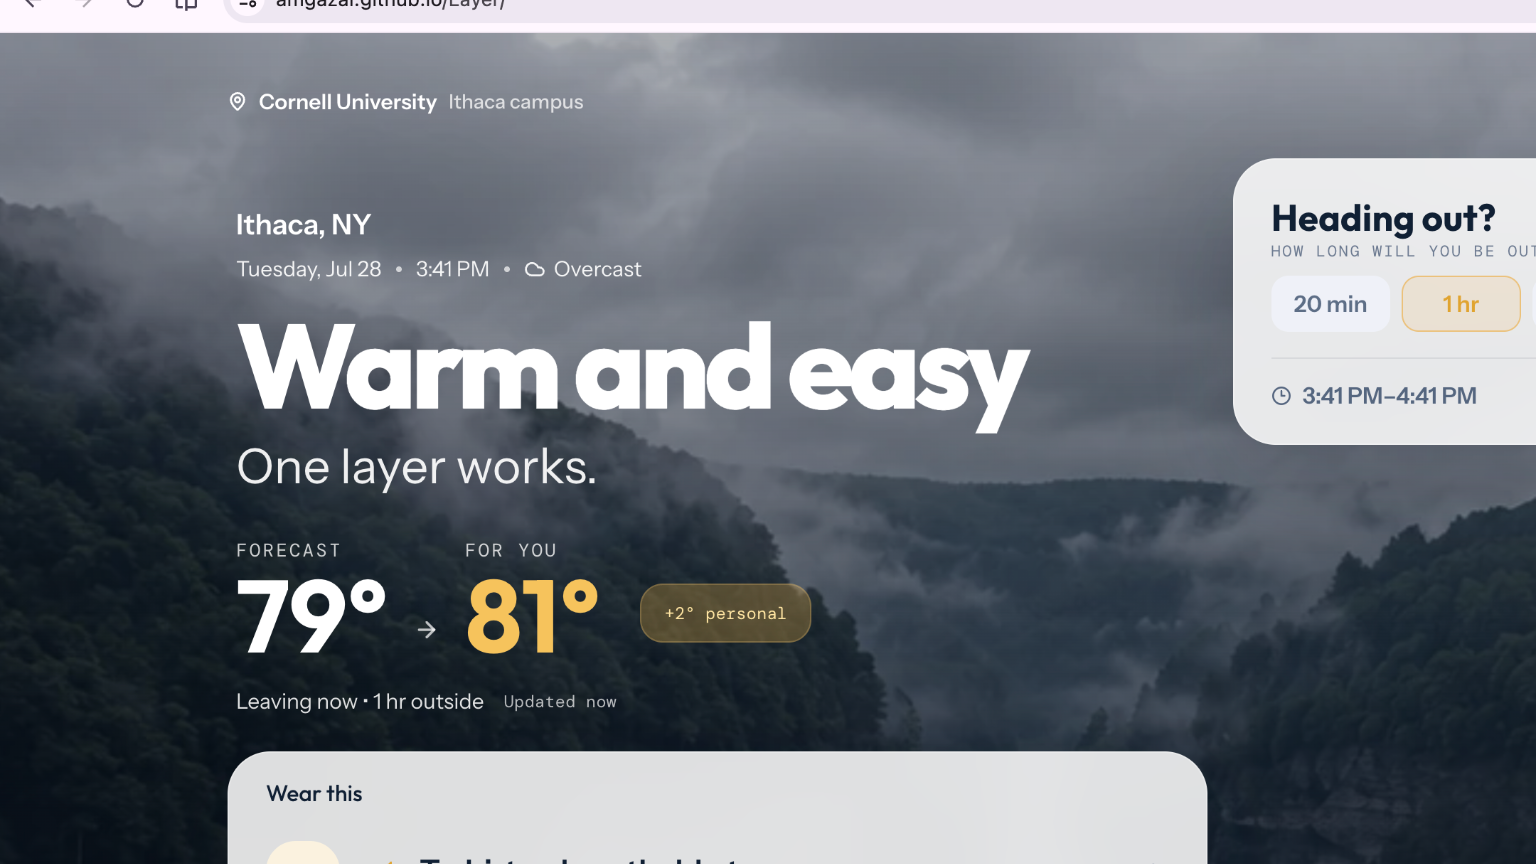
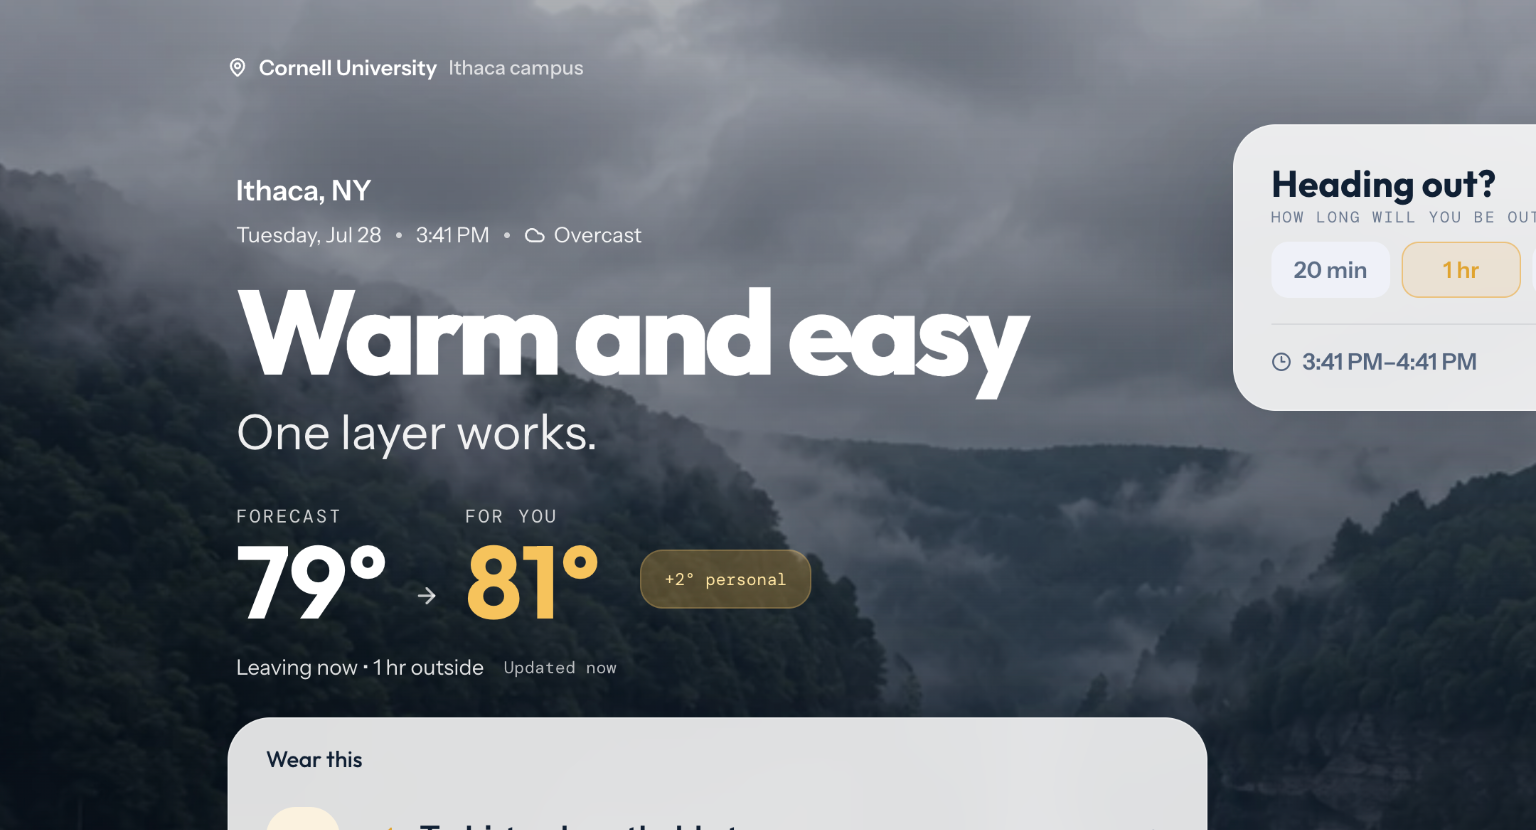
Refine portfolio intro, Layer preview, about section, and footer

diff --git a/index.html b/index.html
@@ -76,7 +76,7 @@
     <div class="scroll-progress" aria-hidden="true"><span id="scrollProgress"></span></div>
 
     <div class="cinema-curtain" id="cinemaCurtain">
-      <div class="curtain-meta" aria-hidden="true">Portfolio / 2026</div>
+      <div class="curtain-meta" aria-hidden="true">Portfolio</div>
       <button class="curtain-skip" id="curtainSkip" type="button">Skip intro</button>
 
       <div class="name-rig" id="nameRig" aria-hidden="true">
@@ -127,11 +127,10 @@
             <div class="cinema-hero-copy">
               <p class="cinema-overline">Cornell University · Information Science · 2028</p>
               <h1 id="introTitle">Abdallah Gazal</h1>
-              <p class="cinema-role">Software engineer who likes understanding the whole system.</p>
+              <p class="cinema-role">Software engineer building thoughtful products from interface to implementation.</p>
               <p class="cinema-lede">
-                I’ve built and shipped React interfaces, worked with APIs and PostgreSQL, written tests
-                and CI checks, and supported real users when things break. I care about the details,
-                but I also want to understand how the pieces fit together.
+                I like work that goes beyond the surface—building the interface, understanding the data and backend behind it,
+                and tightening the details that make a product feel dependable. That range is what keeps software interesting to me.
               </p>
 
               <div class="cinema-actions">
@@ -209,7 +208,7 @@
             <div class="project-text">
               <div class="project-meta">
                 <span class="project-status project-status--live">Independent project</span>
-                <span>2026</span>
+                <span>React · Supabase</span>
               </div>
 
               <h3>Layer</h3>
@@ -264,7 +263,7 @@
             <div class="project-text">
               <div class="project-meta">
                 <span class="project-status project-status--live">Live website</span>
-                <span>2026</span>
+                <span>Frontend · Information architecture</span>
               </div>
               <h3>Future Civilizations Conference</h3>
               <p class="project-summary">
@@ -318,7 +317,7 @@
             <div class="project-text">
               <div class="project-meta">
                 <span class="project-status project-status--live">AI4ALL · Team project</span>
-                <span>2026</span>
+                <span>ML · Streamlit</span>
               </div>
               <h3>AI Tweet Detection</h3>
               <p class="project-summary">
@@ -616,35 +615,34 @@
         </div>
       </section>
 
-      <section id="about" class="container reveal">
+            <section id="about" class="container reveal">
         <div class="section-head">
           <div>
             <p class="eyebrow"><span>03</span> About</p>
-            <h2>I care about what happens after “it works.”</h2>
+            <h2>I like software that feels clear to the user and solid underneath.</h2>
           </div>
           <p>
-            Getting the first version running is the start. I like tightening the interface, tracing the
-            data flow, testing the failure cases, and making sure the person using it never has to think
-            about the engineering underneath.
+            What keeps me interested is the part after the first build works: refining the interface,
+            checking the awkward states, and understanding the system well enough to fix the right thing.
           </p>
         </div>
 
         <div class="about-grid">
           <article class="panel">
             <span class="panel-number">01</span>
-            <h3>Finish the last 10%</h3>
+            <h3>Polish the experience</h3>
             <p>
-              I revisit responsive behavior, edge cases, wording, and the awkward states that appear
-              after the clean demo is over. Those details are usually what make software feel finished.
+              I pay attention to the details people actually feel—responsive behavior, wording, empty states,
+              and the rough edges that decide whether a product feels finished or just functional.
             </p>
           </article>
 
           <article class="panel">
             <span class="panel-number">02</span>
-            <h3>Know what sits behind the screen</h3>
+            <h3>Work across the stack</h3>
             <p>
-              I like being able to trace a feature from the interface to the API, data, tests, and
-              deployment. It makes debugging faster and makes it clearer where a fix actually belongs.
+              I like being able to follow a feature from the UI to the API, data, tests, and deployment.
+              That bigger picture helps me debug faster and make cleaner product decisions.
             </p>
           </article>
         </div>
@@ -699,16 +697,11 @@
       </section>
     </main>
 
-    <footer class="footer container">
+        <footer class="footer container">
       <div class="footer-inner">
         <div class="colophon">
-          <p class="colophon-lead">
-            Designed, built, and refined by Abdallah Gazal <span id="footerYear"></span>
-          </p>
-          <p>
-            Hand-written HTML, CSS, and JavaScript. No frameworks, no UI kit, no page builder.
-            Type set in Bricolage Grotesque and Hanken Grotesk.
-          </p>
+          <p class="colophon-lead">Designed and built by Abdallah Gazal.</p>
+          <p>HTML, CSS, and JavaScript, with a focus on clarity, performance, and maintainability.</p>
         </div>
 
         <a class="footer-top" href="#home">

diff --git a/script.js b/script.js
@@ -29,6 +29,7 @@
   var rigLetters = [];
   var rigLines = [];
   var rigTargets = [];
+  var rigScatterRanks = [];
 
   function buildNameRig() {
     if (!nameRigLetters || !nameRigLines) return;
@@ -59,6 +60,13 @@
       });
 
       nameRigLetters.appendChild(wordEl);
+    });
+
+    var order = rigLetters.map(function (_, index) { return index; });
+    order.sort(function (a, b) { return seededUnit(a, 11) - seededUnit(b, 11); });
+    rigScatterRanks = [];
+    order.forEach(function (originalIndex, scatteredIndex) {
+      rigScatterRanks[originalIndex] = scatteredIndex;
     });
   }
 
@@ -95,31 +103,29 @@
       var target = rigTargets[index];
       if (!target) return;
 
-      var initialX;
+      var scatterRank = rigScatterRanks[index] || 0;
+      var spread = rigLetters.length > 1 ? scatterRank / (rigLetters.length - 1) : 0.5;
+      var initialX = width * (compact ? (0.08 + spread * 0.84) : (0.07 + spread * 0.86));
+      var rowNoise = seededUnit(index, 5);
       var rowLift = 0;
       if (compact) {
-        var wordIndex = Number(letter.dataset.rigWord);
-        var positionInWord = Number(letter.dataset.rigPos);
-        var wordLength = wordIndex === 0 ? 8 : 5;
-        var wordSpread = wordLength > 1 ? positionInWord / (wordLength - 1) : 0.5;
-        initialX = width * ((wordIndex === 0 ? 0.10 : 0.17) + wordSpread * (wordIndex === 0 ? 0.80 : 0.66));
-        rowLift = wordIndex === 0 ? -Math.min(58, height * 0.07) : 0;
+        rowLift = rowNoise < 0.34 ? -Math.min(92, height * 0.11) : rowNoise < 0.68 ? -Math.min(38, height * 0.05) : 0;
       } else {
-        var readingSpread = rigLetters.length > 1 ? index / (rigLetters.length - 1) : 0.5;
-        initialX = width * (0.08 + readingSpread * 0.84);
+        rowLift = rowNoise < 0.33 ? -Math.min(84, height * 0.10) : rowNoise < 0.66 ? -Math.min(34, height * 0.04) : 0;
       }
 
-      var scatterX = initialX - target.x + (seededUnit(index, 1) * 2 - 1) * (compact ? 7 : 16);
-      // Keep the letters on one floor line on desktop and two loose rows on phones.
-      var baselineJitter = (seededUnit(index, 4) * 2 - 1) * (compact ? 4 : 8);
+      var scatterX = initialX - target.x + (seededUnit(index, 1) * 2 - 1) * (compact ? 22 : 44);
+      var baselineJitter = (seededUnit(index, 4) * 2 - 1) * (compact ? 9 : 15);
       var scatterY = groundY + rowLift - target.y - target.height * 0.48 + baselineJitter;
-      var scatterRotation = (seededUnit(index, 3) * 2 - 1) * (compact ? 10 : 16);
+      var scatterRotation = (seededUnit(index, 3) * 2 - 1) * (compact ? 18 : 26);
 
       var x = scatterX * remaining;
       var y = scatterY * remaining;
       var rotation = scatterRotation * remaining;
-      var scale = 0.78 + eased * 0.22;
+      var scale = 0.72 + eased * 0.28;
+      var opacity = clamp(0.22 + eased * 0.78, 0, 1);
 
+      letter.style.opacity = opacity.toFixed(3);
       letter.style.transform =
         "translate3d(" + x.toFixed(1) + "px, " + y.toFixed(1) + "px, 0) " +
         "rotate(" + rotation.toFixed(2) + "deg) scale(" + scale.toFixed(3) + ")";
@@ -411,6 +417,4 @@
     renderColorDemo();
   }
 
-  var footerYear = document.getElementById("footerYear");
-  if (footerYear) footerYear.textContent = "· " + new Date().getFullYear();
 })();

diff --git a/styles.css b/styles.css
@@ -814,6 +814,10 @@ main > section + section {
   aspect-ratio: 16 / 9;
 }
 
+.project-visual--featured img {
+  object-position: center center;
+}
+
 .project-visual--comparison {
   height: auto;
   aspect-ratio: 16 / 10;
@@ -1537,15 +1541,15 @@ main > section + section {
 }
 
 .colophon p {
-  font-family: var(--mono);
-  font-size: 0.66rem;
-  line-height: 1.75;
-  letter-spacing: 0.04em;
+  font-size: 0.88rem;
+  line-height: 1.7;
+  color: var(--subtle);
 }
 
 .colophon-lead {
-  margin-bottom: 0.45rem;
+  margin-bottom: 0.35rem;
   color: var(--muted);
+  font-weight: 600;
 }
 
 .footer-top {
